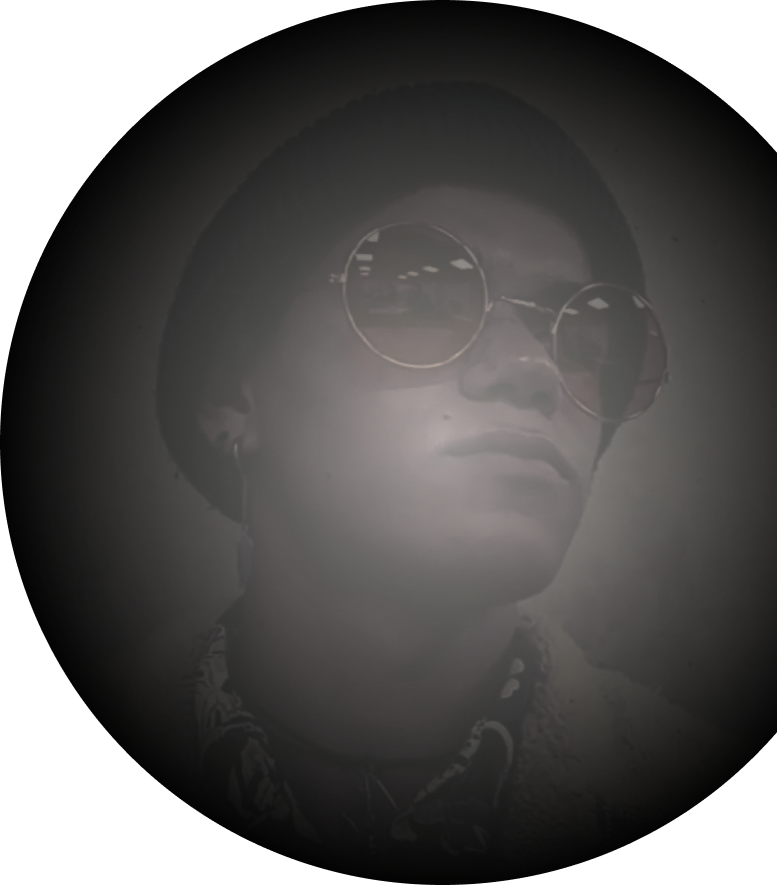
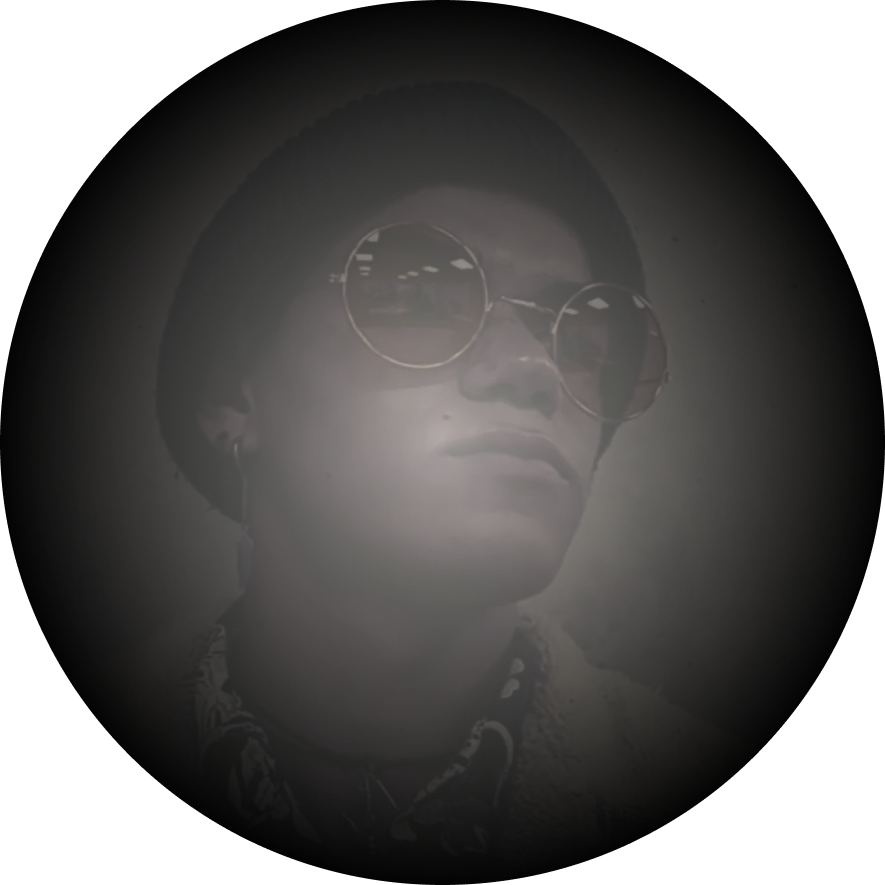
adding whoami content and modifying some sizes for more responsive

diff --git a/src/scripts/cursor-follower.js b/src/scripts/cursor-follower.js
@@ -1,5 +1,4 @@
 document.addEventListener("mousemove", function (e) {    
-    console.log(e)
     document.querySelector('#_cursorFollows').style.transform = `translate(calc(${e.layerX}px - 200px), calc(${e.layerY}px - 180px))`;
     document.querySelector('#_pointerTexture').style.transform = `translate(calc(${e.layerX}px - 50%), calc(${e.layerY}px - 50%))`;
 });
